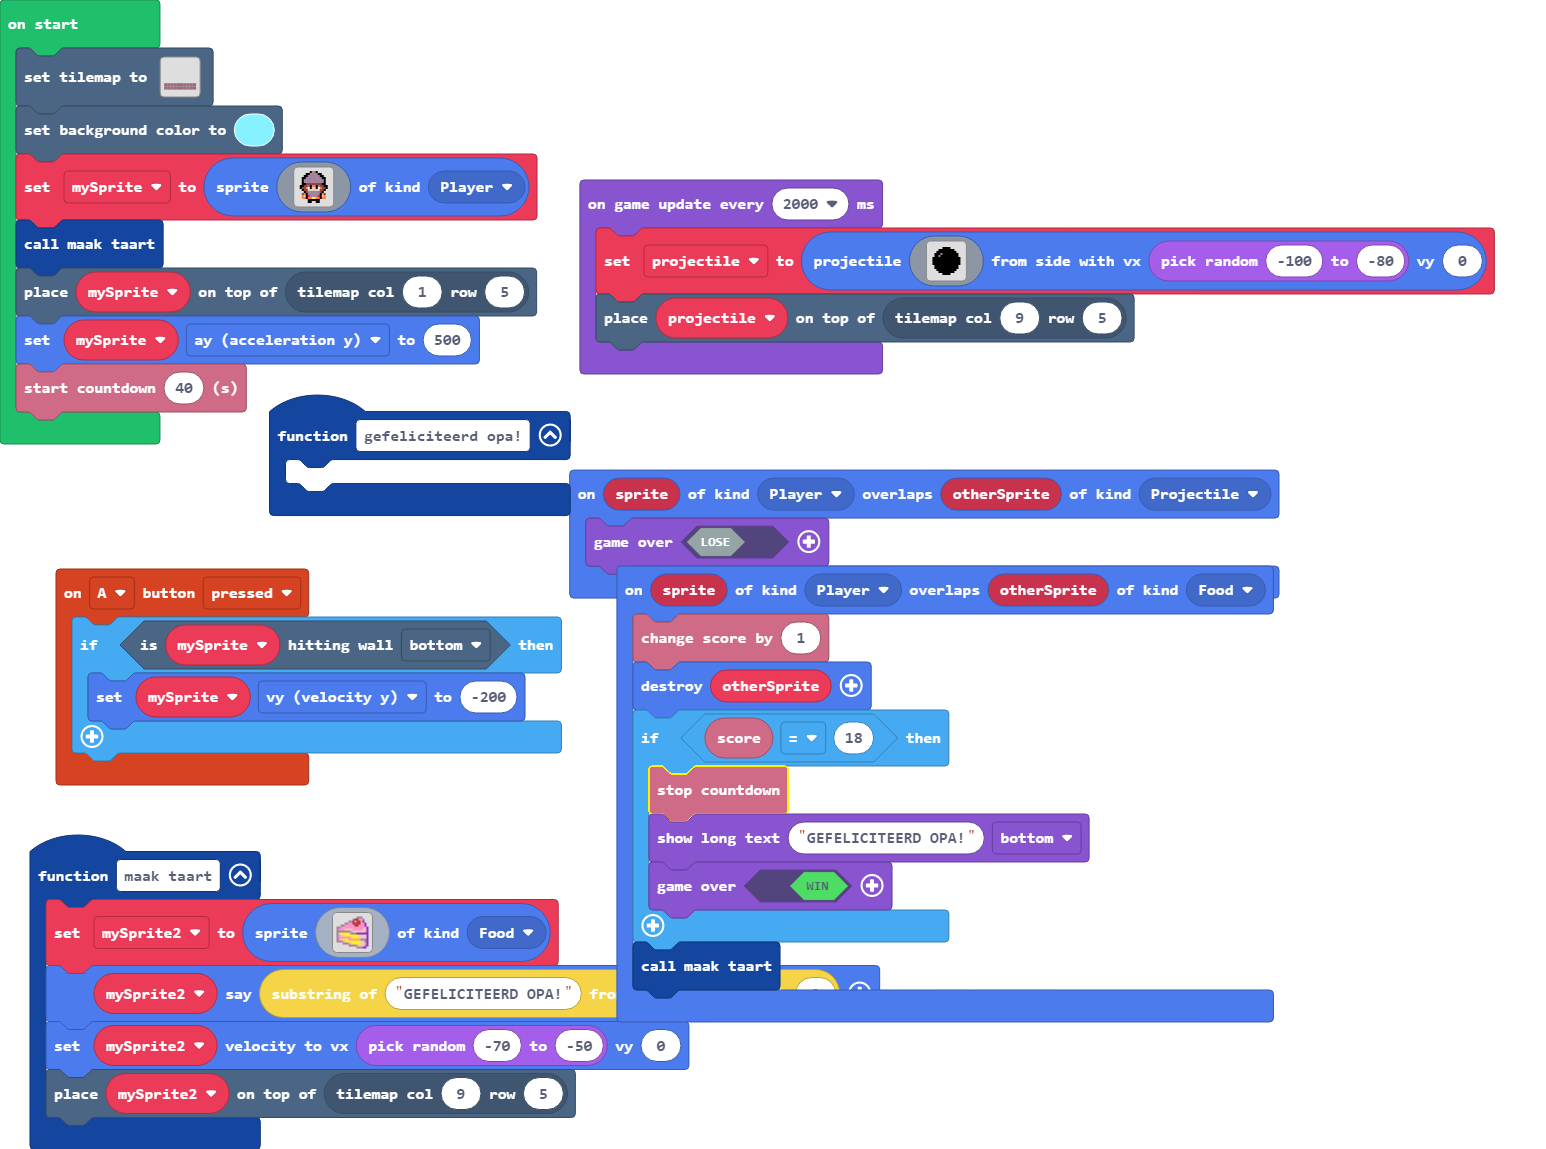
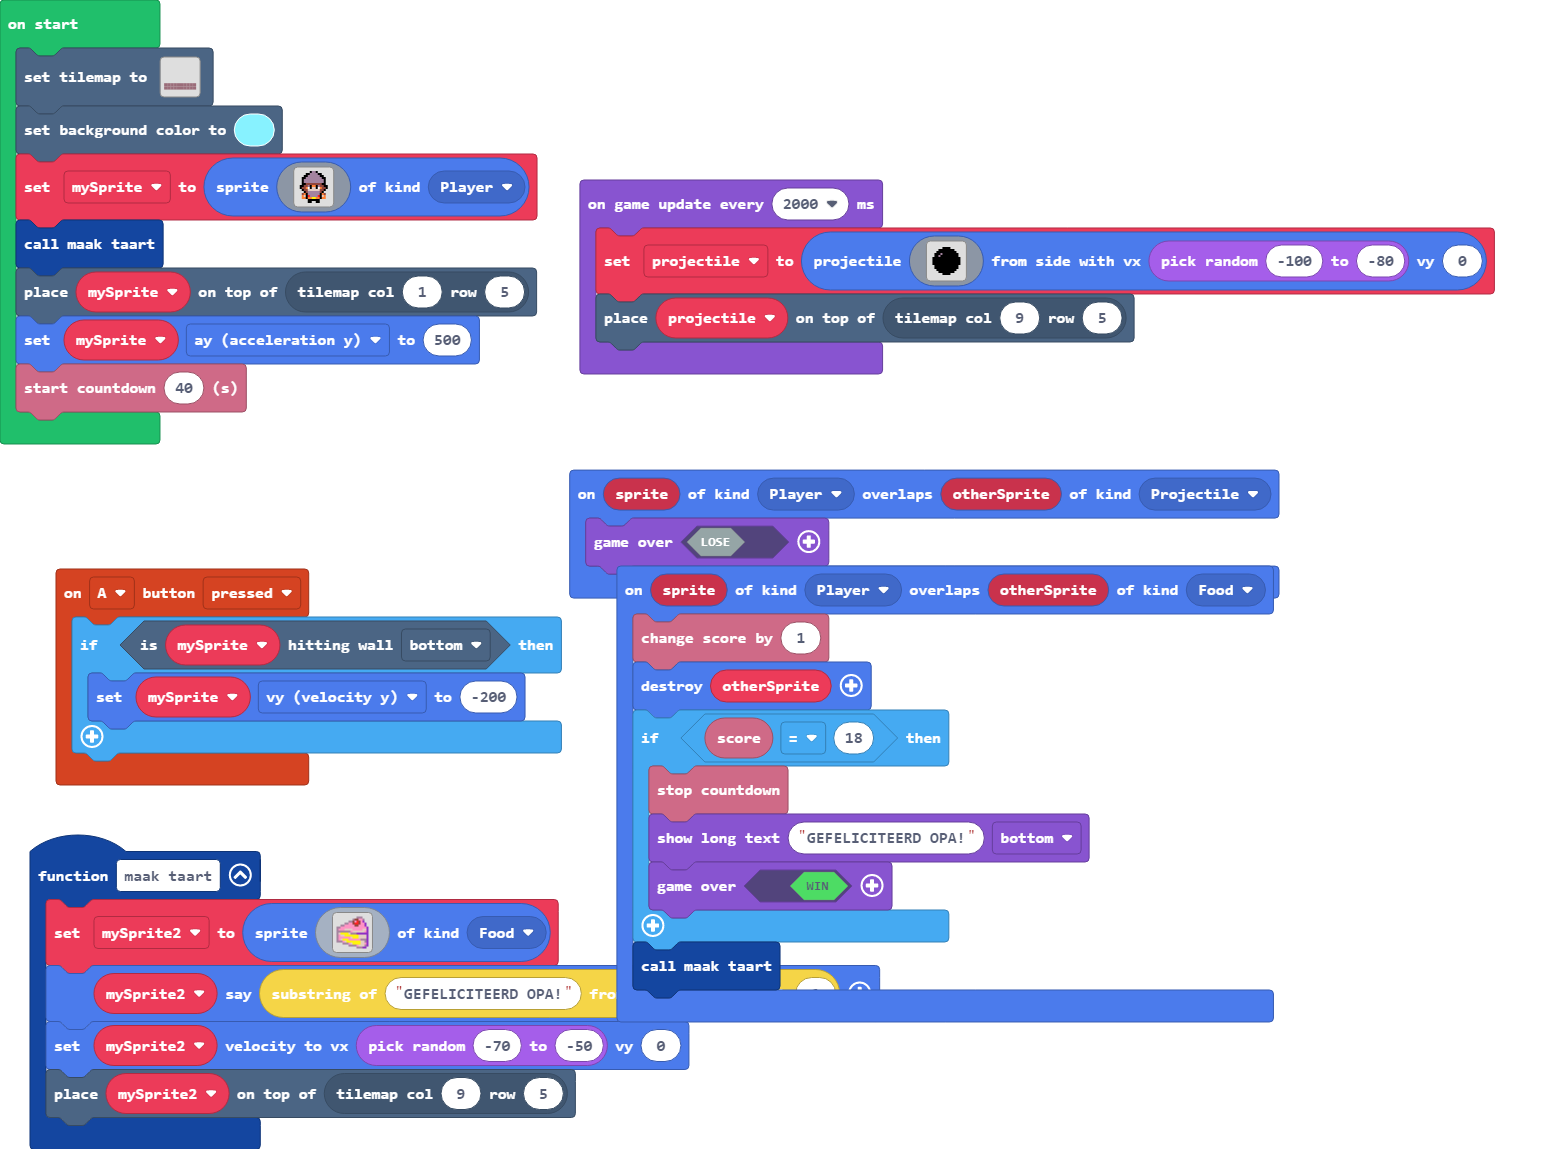
Update main.blocks, main.ts, images.g.jres

Changed region(s): [[0.1552, 0.3351, 0.3726, 0.4569]]

diff --git a/main.ts b/main.ts
@@ -1,6 +1,3 @@
-function gefeliciteerd_opa () {
-	
-}
 controller.A.onEvent(ControllerButtonEvent.Pressed, function () {
     if (mySprite.isHittingTile(CollisionDirection.Bottom)) {
         mySprite.vy = -200
